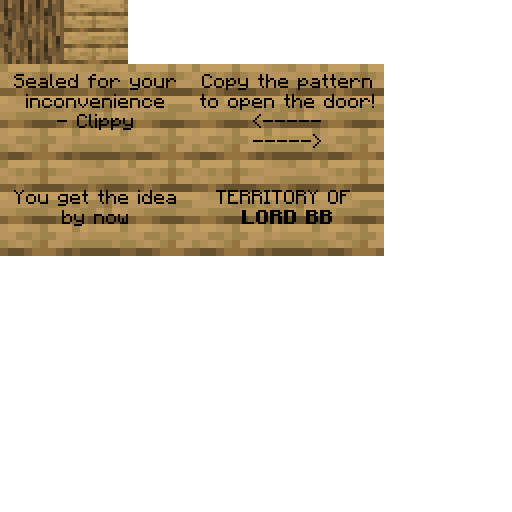
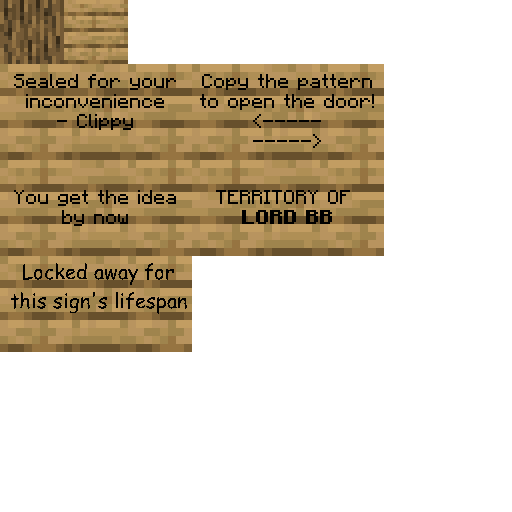
Changed the sign on Beta 2
There is now a Sign 5 used exclusively on Beta 2.

Changed region(s): [[0.0, 0.5, 0.375, 0.6875]]

diff --git a/script/campaign/cam2-1x.js b/script/campaign/cam2-1x.js
@@ -14,7 +14,7 @@ const BONZI_RES = [
 // Sword Zone event
 function eventDestroyed(obj)
 {
-	if (obj.type === FEATURE && obj.name === _("Sign 1")) // NOTE: Sign name will be changed later
+	if (obj.type === FEATURE && obj.name === _("Sign 5")) // NOTE: Sign name will NOT be changed later
 	{
 		const numCyborgs = 20; // Set to however many cyborgs you want
 		let cyborgGroup = camNewGroup(); // Create a new group to place the cyborgs into
@@ -72,7 +72,7 @@ function eventStartLevel()
 
 	// Add a funny sign and the giant door for the Sword area
 	// NOTE: this sign is a placeholder
-	camUpgradeOnMapFeatures("Pylon", "Sign1");
+	camUpgradeOnMapFeatures("Pylon", "Sign5");
 	camUpgradeOnMapFeatures("TreeSnow2", "GiantDoorHoriz");
 	
 	camSetArtifacts({
